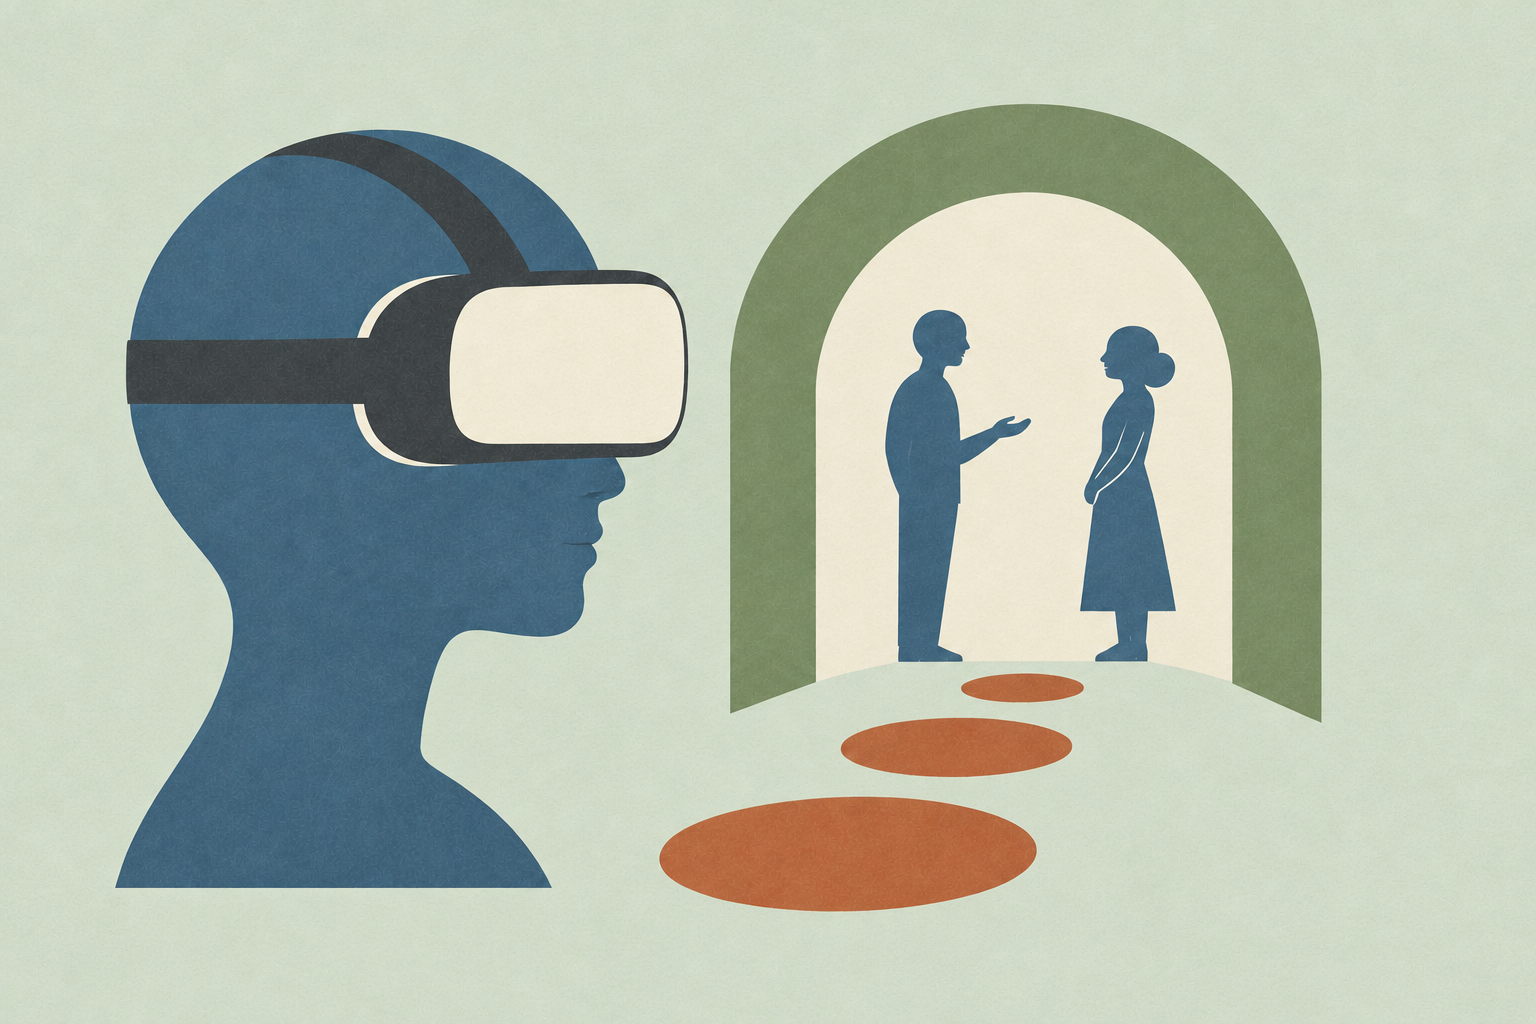
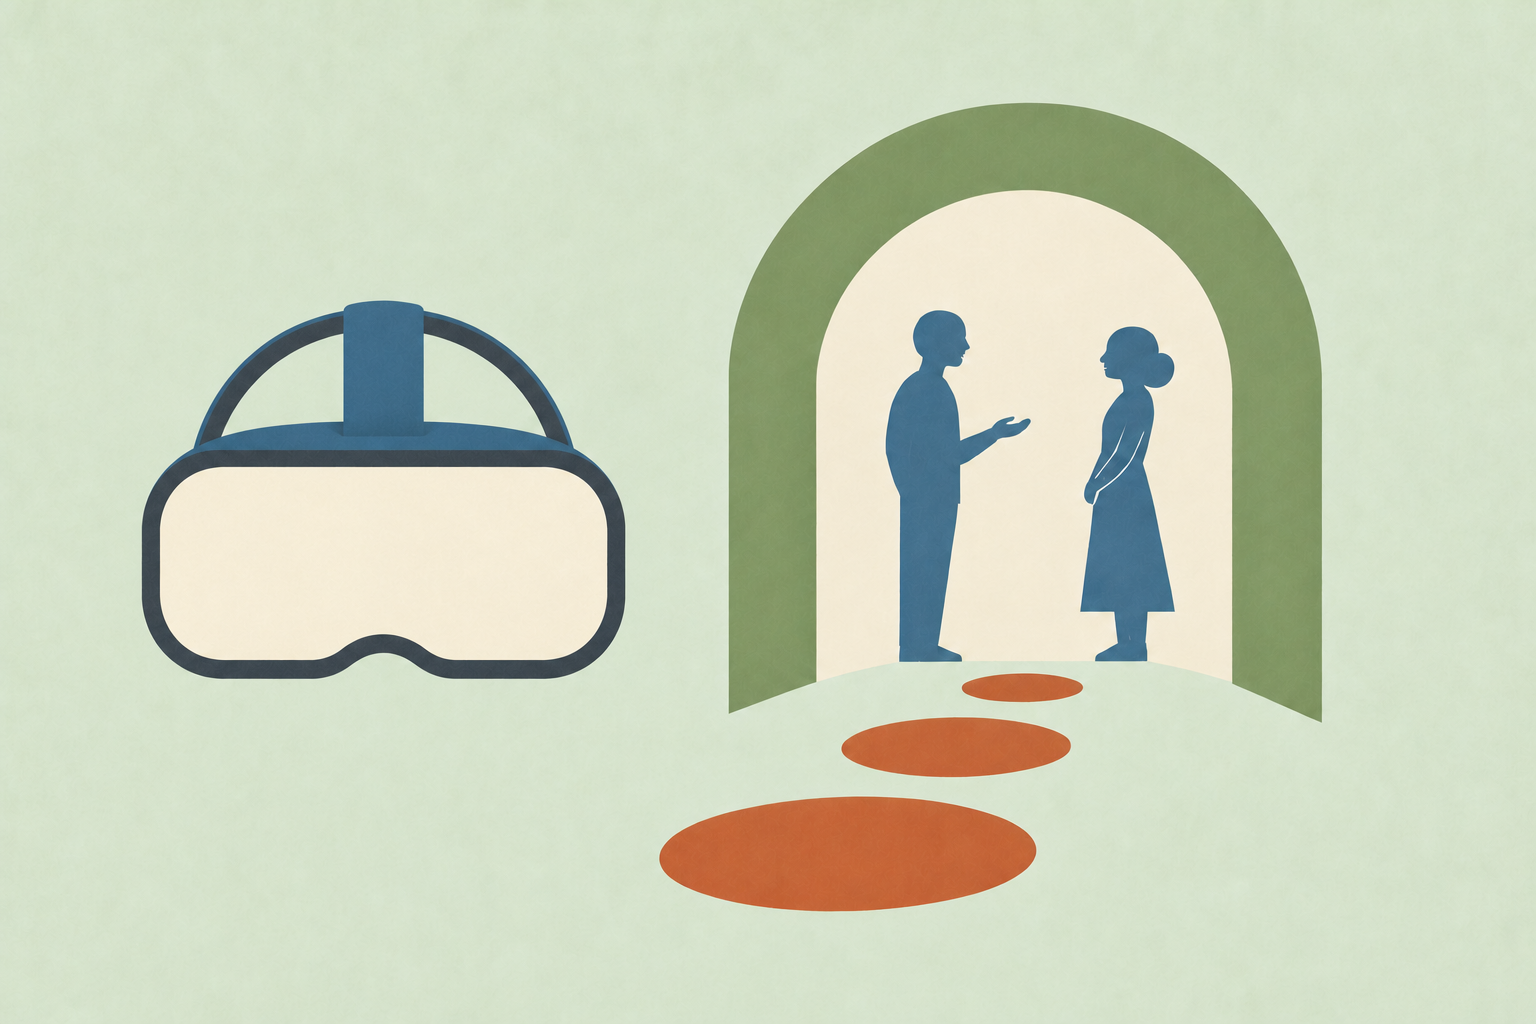
update

Changed region(s): [[0.0625, 0.125, 0.4688, 0.875], [0.7188, 0.4375, 0.75, 0.4688]]

diff --git a/static/css/modern.css b/static/css/modern.css
@@ -118,24 +118,29 @@ body {
     color: var(--accent-color);
 }
 
-/* Colorful "Life" nav pill */
+/* Muted paper palette shared with the project illustrations */
 .nav-menu a.nav-life {
     display: inline-block;
     padding: 0.35rem 1rem;
     border-radius: 999px;
-    color: #fff;
+    color: #354b50;
     font-weight: 600;
-    background: linear-gradient(120deg, #f497b6 0%, #a78bfa 50%, #5ec8f0 100%);
+    background: linear-gradient(120deg, #e5cfc4 0%, #d9dfcf 52%, #cbdce0 100%);
     background-size: 160% 160%;
     background-position: 0% 50%;
-    box-shadow: 0 2px 8px rgba(167, 139, 250, 0.35);
+    box-shadow: inset 0 0 0 1px rgba(70, 88, 83, 0.12), 0 2px 6px rgba(70, 88, 83, 0.08);
 }
 
 .nav-menu a.nav-life:hover {
-    color: #fff;
+    color: #293e43;
     background-position: 100% 50%;
     transform: translateY(-1px);
-    box-shadow: 0 4px 14px rgba(167, 139, 250, 0.5);
+    box-shadow: inset 0 0 0 1px rgba(70, 88, 83, 0.18), 0 4px 10px rgba(70, 88, 83, 0.12);
+}
+
+.nav-menu a.nav-life:focus-visible {
+    outline: 2px solid #526f7a;
+    outline-offset: 4px;
 }
 
 @media (min-width: 768px) {
@@ -169,7 +174,7 @@ body {
 /* Hero Section */
 .hero {
     padding: 1.5rem 0;
-    background: url('../assets/img/background.jpeg') center center / cover no-repeat;
+    background: linear-gradient(115deg, #dce5e7 0%, #e3e7dc 38%, #efe8da 70%, #ead8cf 100%);
     position: relative;
 }
 
@@ -180,7 +185,7 @@ body {
     left: 0;
     right: 0;
     bottom: 0;
-    background: rgba(255, 255, 255, 0.6);
+    background: rgba(255, 255, 255, 0.08);
     z-index: 0;
 }
 

diff --git a/index.html b/index.html
@@ -172,7 +172,6 @@
                         <i class="bi bi-envelope-fill"></i>
                     </a>
                 </div>
-                <p class="footer-note">Last updated: August 2026 • Email: rjguan[at]stanford.edu</p>
                 <p class="copyright">&copy; 2026 Ruijia (Hannah) Guan. All Rights Reserved.</p>
             </div>
         </div>
